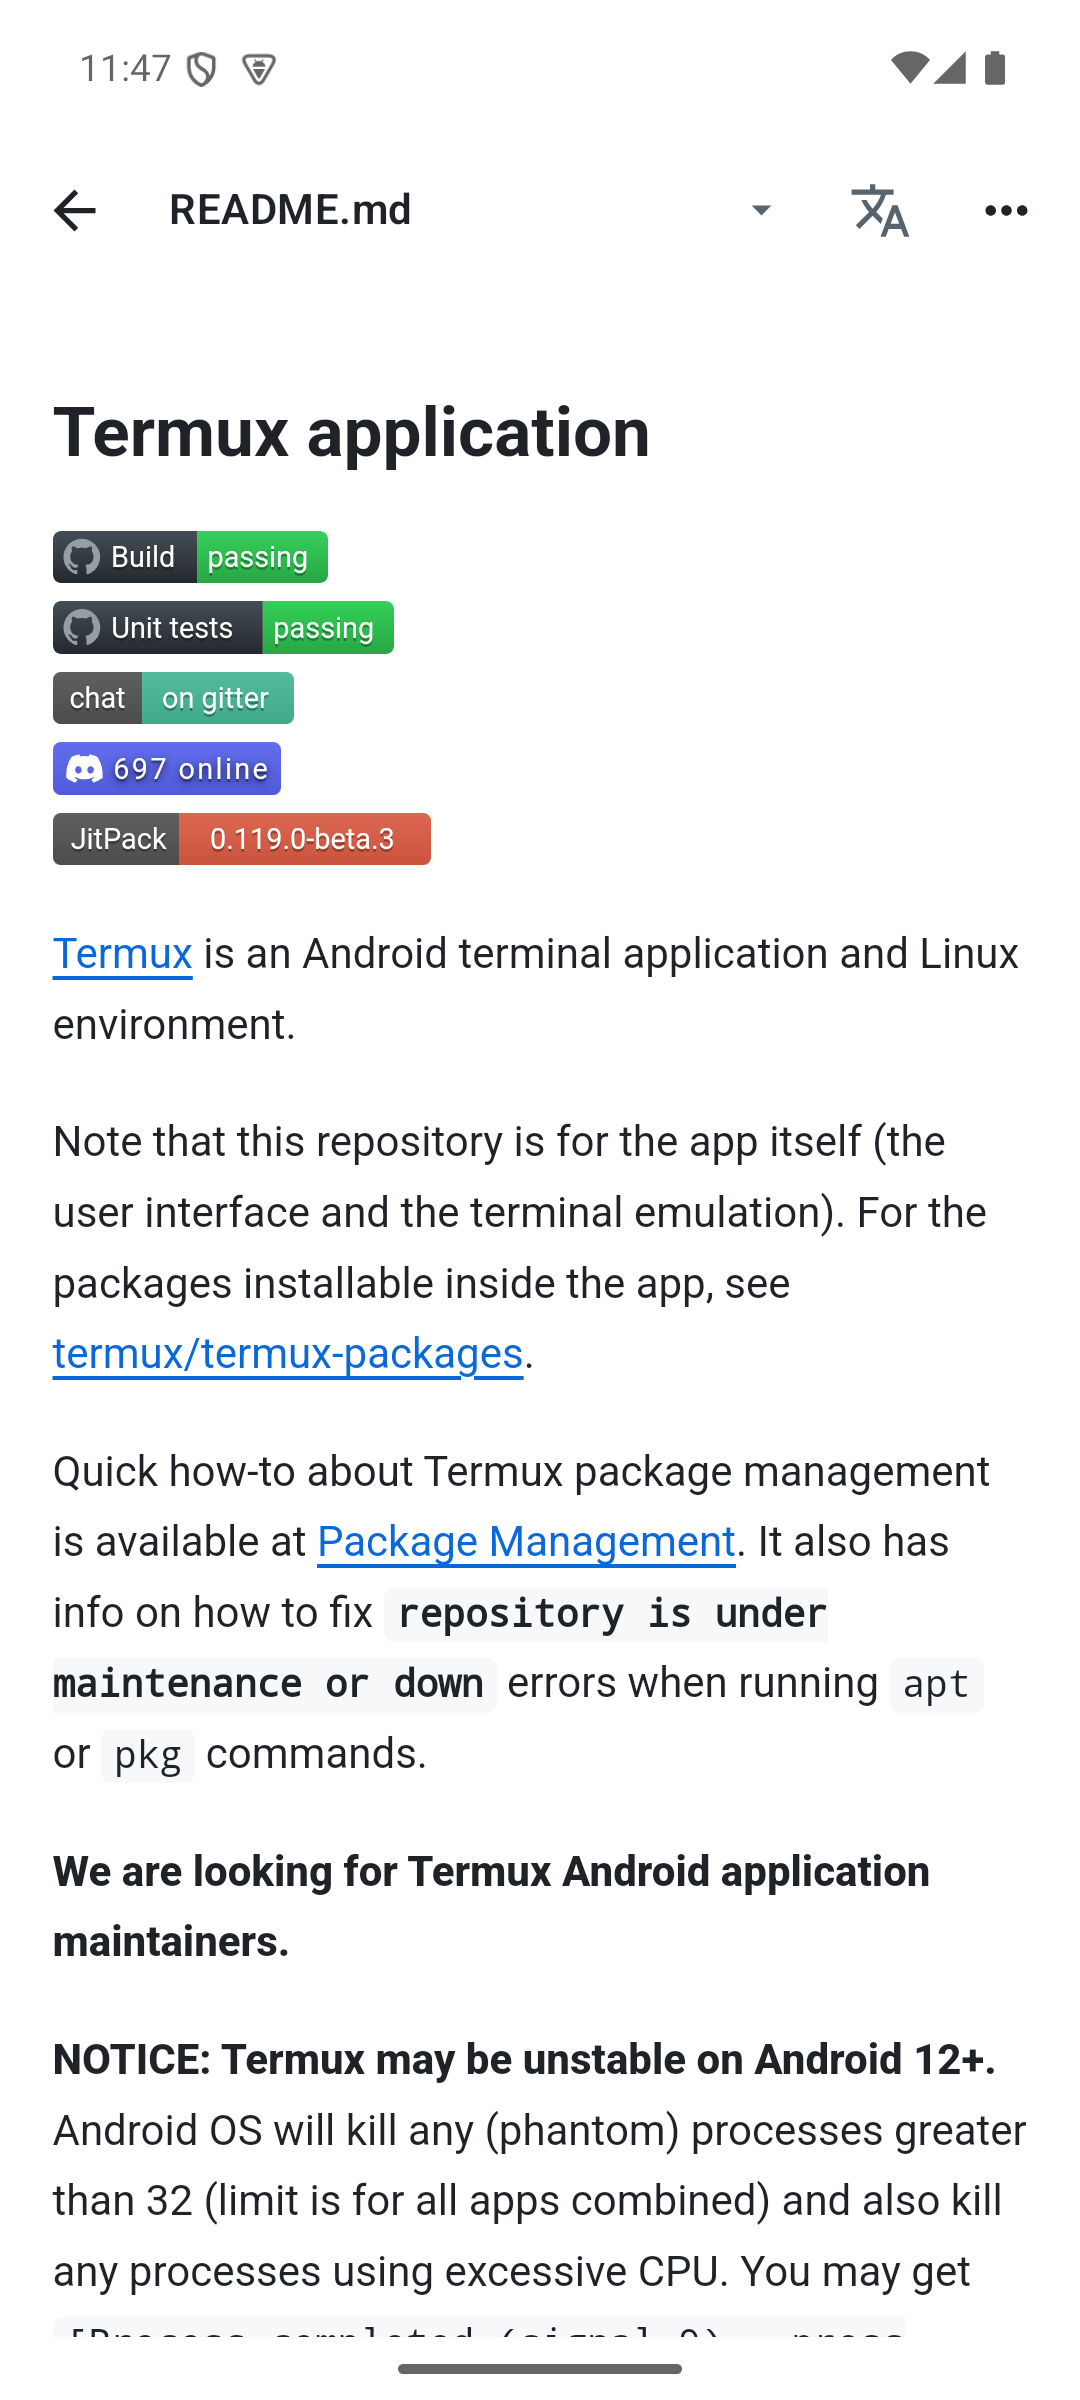
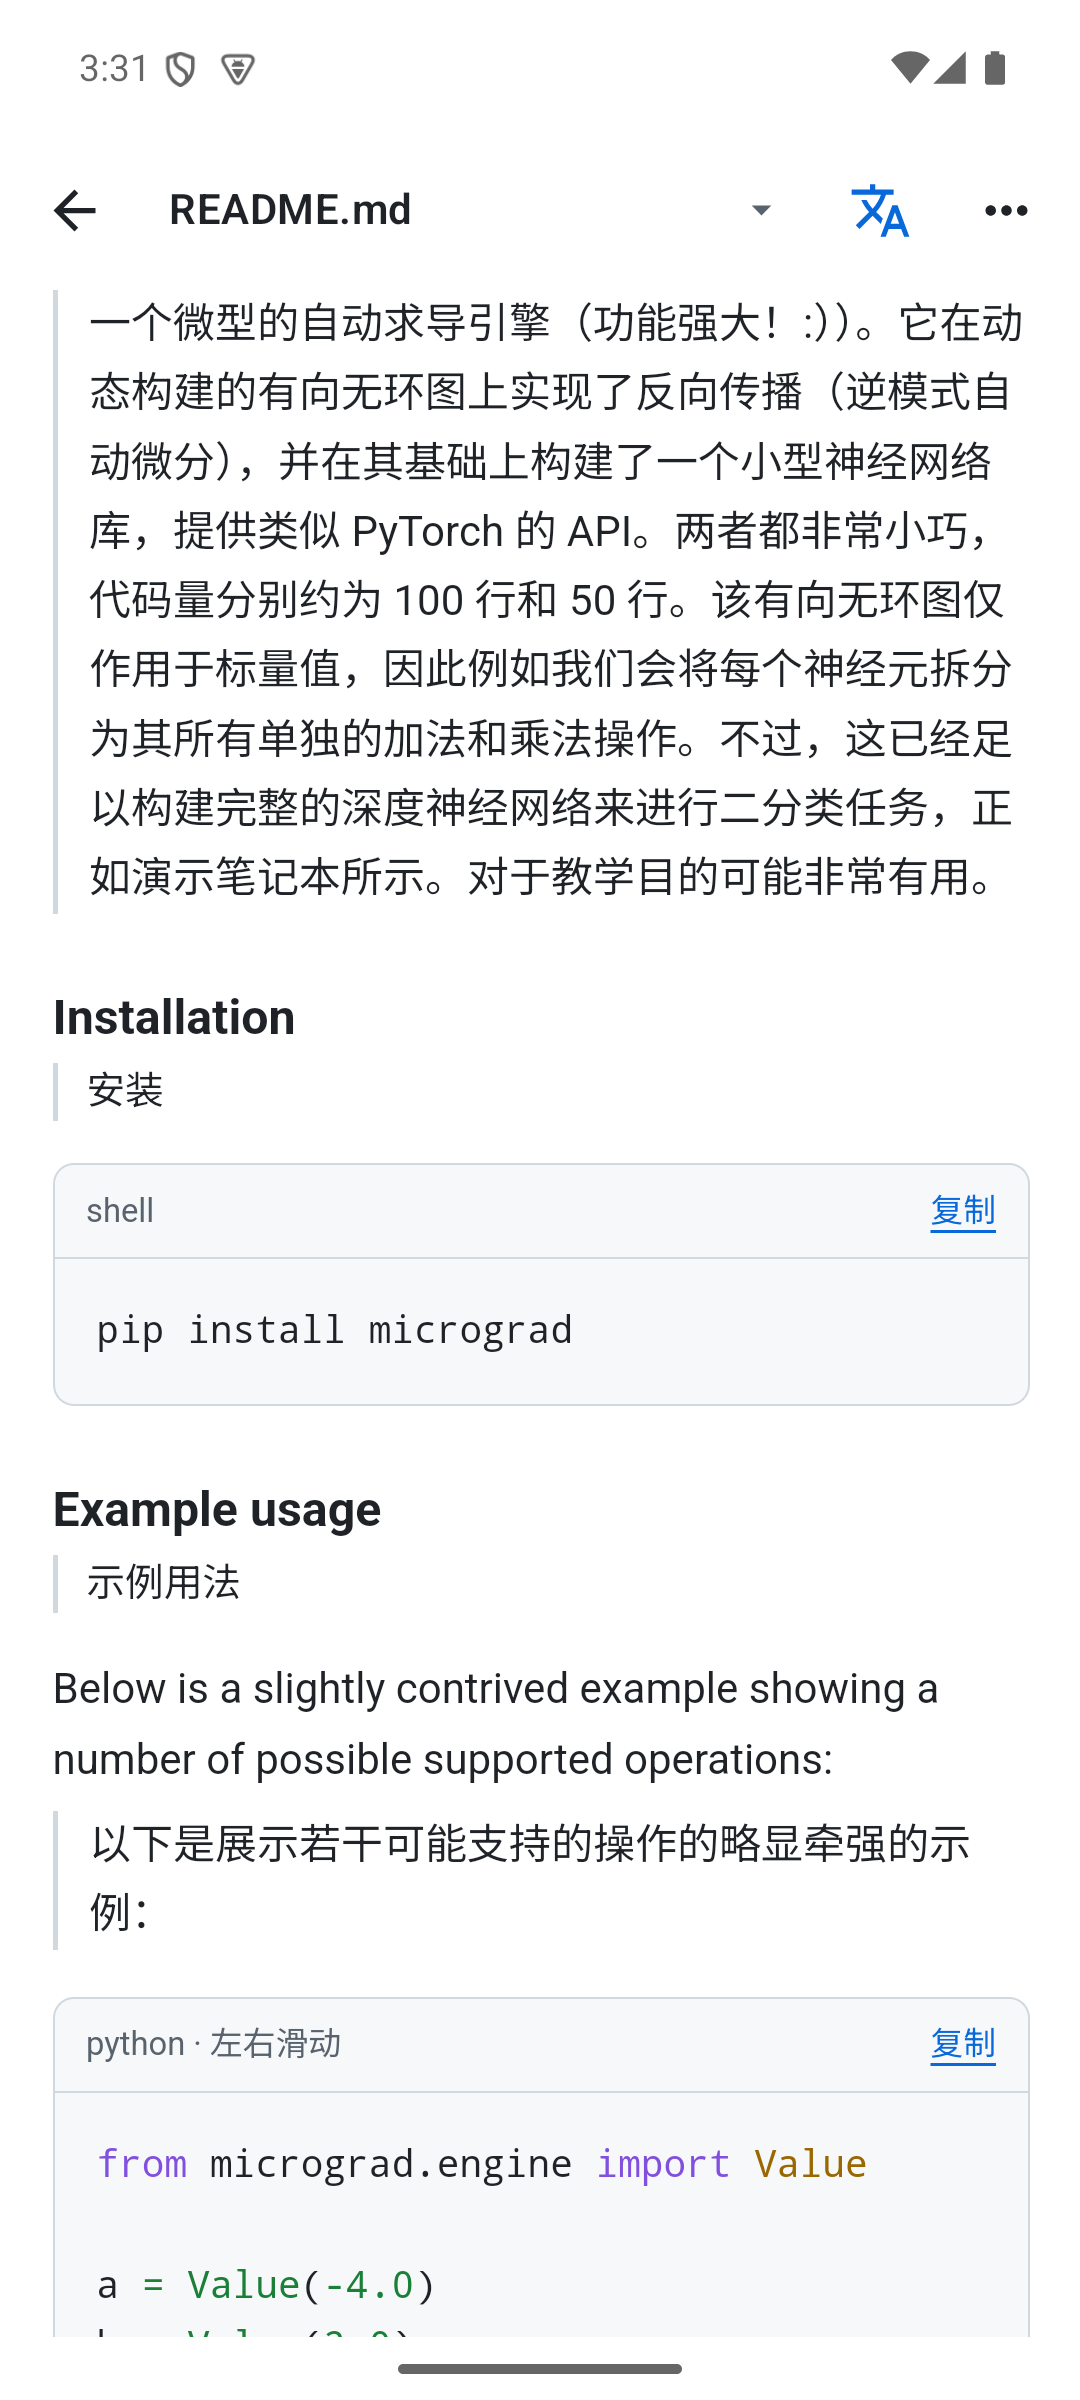
test: stabilize first-run translation verification and refresh real screenshot

diff --git a/smoke-test/src/main/java/app/reporove/smoke/ReleaseSmokeInstrumentation.java b/smoke-test/src/main/java/app/reporove/smoke/ReleaseSmokeInstrumentation.java
@@ -25,6 +25,7 @@ public final class ReleaseSmokeInstrumentation extends Instrumentation {
     private boolean restoreTranslationProbe;
     private boolean liveTranslationProbe;
     private boolean cachedLiveTranslationProbe;
+    private boolean reuseTranslationConfig;
     private int keyPort;
     private String keyNonce;
     private Activity monitoredActivity;
@@ -37,6 +38,7 @@ public final class ReleaseSmokeInstrumentation extends Instrumentation {
         restoreTranslationProbe = arguments != null && "true".equals(arguments.getString("restore_translation_probe"));
         liveTranslationProbe = arguments != null && "true".equals(arguments.getString("live_translation_probe"));
         cachedLiveTranslationProbe = arguments != null && "true".equals(arguments.getString("cached_live_translation_probe"));
+        reuseTranslationConfig = arguments != null && "true".equals(arguments.getString("reuse_translation_config"));
         keyPort = arguments == null ? 0 : Integer.parseInt(arguments.getString("key_port", "0"));
         keyNonce = arguments == null ? "" : arguments.getString("key_nonce", "");
         start();
@@ -204,12 +206,23 @@ public final class ReleaseSmokeInstrumentation extends Instrumentation {
             if (view == null) latch.countDown();
             else view.evaluateJavascript(script, text -> { result.set(text); latch.countDown(); });
         });
-        if (!latch.await(3, java.util.concurrent.TimeUnit.SECONDS)) throw new AssertionError("Reader script timed out");
+        // Navigation can dispose the outgoing preview before its callback runs.
+        // The caller's bounded wait resolves the current reader again each time.
+        if (!latch.await(3, java.util.concurrent.TimeUnit.SECONDS)) return "null";
         return result.get();
     }
     private void waitReader(String script, long timeout) throws Exception {
         long deadline = SystemClock.elapsedRealtime()+timeout;
         while (SystemClock.elapsedRealtime()<deadline) { if ("true".equals(readerJs(script))) return; SystemClock.sleep(150); }
+        System.out.println("READER_DIAGNOSTIC="+readerJs("JSON.stringify({ready:document.readyState,sources:document.querySelectorAll('[data-rr-source]').length,complete:document.querySelectorAll('[data-rr-complete=true]').length,pending:window.__rrPending?.size,scheduled:window.__rrScheduled,touching:window.__rrTouching,busy:window.__rrBusyUntil,now:Date.now(),targets:Array.from(document.querySelectorAll('[data-rr-target]')).slice(0,4).map(e=>e.innerText.slice(0,100))})"));
+        File[] saved = new File(getTargetContext().getFilesDir(),"translation-v2").listFiles();
+        System.out.println("CACHE_FILES="+(saved==null?0:saved.length));
+        for(java.util.Map.Entry<Thread,StackTraceElement[]> entry:Thread.getAllStackTraces().entrySet()) {
+            if(entry.getKey().getName().startsWith("OkHttp")) {
+                System.out.println("TRANSPORT_THREAD="+entry.getKey().getName()+" "+entry.getKey().getState());
+                for(int i=0;i<Math.min(10,entry.getValue().length);i++)System.out.println("  "+entry.getValue()[i]);
+            }
+        }
         throw new AssertionError("Reader condition not reached: "+script);
     }
     private String receiveLiveKey() throws Exception {
@@ -223,21 +236,33 @@ public final class ReleaseSmokeInstrumentation extends Instrumentation {
         }
     }
     private void verifyRealTranslation(Bundle result) throws Exception {
-        String key = receiveLiveKey();
+        String key = reuseTranslationConfig ? null : receiveLiveKey();
         startMonitoredActivity();
+        if (!reuseTranslationConfig) {
         click(waitFor("desc", "我的")); click(waitFor("desc", "设置")); click(waitFor("button", "段落双语"));
+        getUiAutomation().waitForIdle(500,5000);
+        AccessibilityNodeInfo keyInput = waitFor("class", "android.widget.EditText");
+        keyInput.performAction(AccessibilityNodeInfo.ACTION_FOCUS);
         Bundle value = new Bundle(); value.putCharSequence(AccessibilityNodeInfo.ACTION_ARGUMENT_SET_TEXT_CHARSEQUENCE, key);
-        if (!waitFor("class", "android.widget.EditText").performAction(AccessibilityNodeInfo.ACTION_SET_TEXT, value)) throw new AssertionError("Key could not be entered");
+        if (!keyInput.performAction(AccessibilityNodeInfo.ACTION_SET_TEXT, value)) throw new AssertionError("Key could not be entered");
         key = null; value.clear();
+        getUiAutomation().waitForIdle(300,5000);
         click(waitFor("button", "保存"));
         click(waitFor("desc", "返回")); // settings -> profile
+        }
         click(waitFor("desc", "搜索"));
+        waitFor("text", "查找项目与内容");
+        getUiAutomation().waitForIdle(500,5000);
         Bundle query = new Bundle(); query.putCharSequence(AccessibilityNodeInfo.ACTION_ARGUMENT_SET_TEXT_CHARSEQUENCE, "repo:karpathy/micrograd");
-        waitFor("class", "android.widget.EditText").performAction(AccessibilityNodeInfo.ACTION_SET_TEXT, query);
+        AccessibilityNodeInfo searchInput = waitFor("class", "android.widget.EditText");
+        searchInput.performAction(AccessibilityNodeInfo.ACTION_FOCUS);
+        if (!searchInput.performAction(AccessibilityNodeInfo.ACTION_SET_TEXT, query)) throw new AssertionError("Search input was not accepted");
         waitFor("text", "repo:karpathy/micrograd"); getUiAutomation().waitForIdle(300,5000);
         click(waitFor("button", "搜索")); click(waitFor("repo", "micrograd"));
         click(waitFor("text", "阅读全文"));
+        waitFor("text", "README.md"); getUiAutomation().waitForIdle(500,5000);
         waitReader("document.querySelectorAll('[data-rr-source]').length>0",15000);
+        getUiAutomation().waitForIdle(500,5000);
         long start = SystemClock.elapsedRealtime(); click(waitFor("desc", "开启双语"));
         String chinese = "Array.from(document.querySelectorAll('[data-rr-complete=true]')).some(e=>/[\\u4e00-\\u9fff]/.test(e.innerText))";
         waitReader(chinese,20000); result.putLong("first_visible_translation_ms",SystemClock.elapsedRealtime()-start);

diff --git a/docs/images/README.md b/docs/images/README.md
@@ -2,7 +2,8 @@
 
 均为实际 Android App 截图，公开项目数据来自 GitHub，无虚构账号或私有内容。设备为 API 35 模拟器、1080 × 2400。
 
-- `discover`、`repository`、`readme`、`code-tree`、`trending`：0.6.3 签名验收包，2026-10-16。
+- `discover`、`repository`、`code-tree`、`trending`：0.6.3 签名验收包，2026-10-16。
+- `readme`：0.6.3 构建 11，真实千问翻译公开 micrograd 文档，2026-10-16。
 - `library`：0.6.0，2026-10-08；本轮未调整该页面。
 - `feedback-survey.jpg`：用户提供的问卷星原图，2026-10-08。
 
